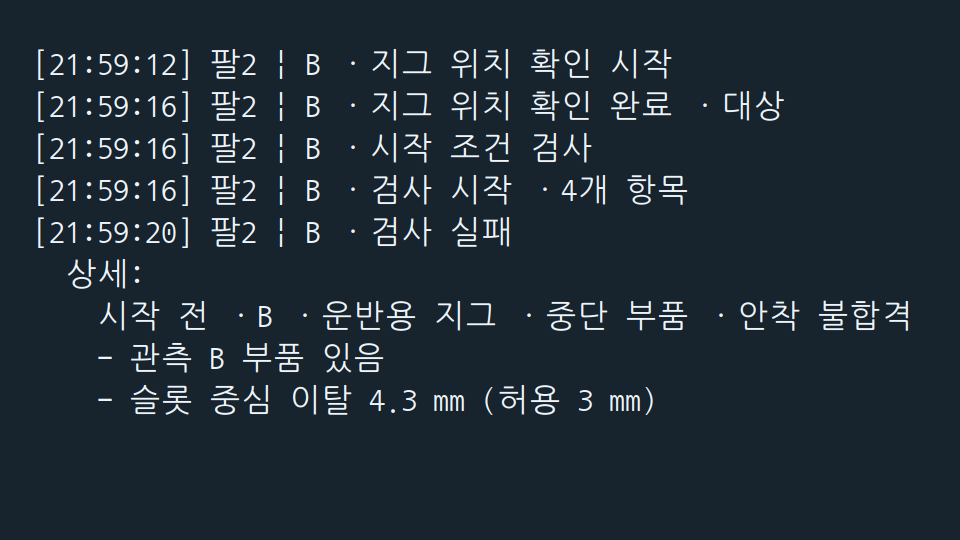
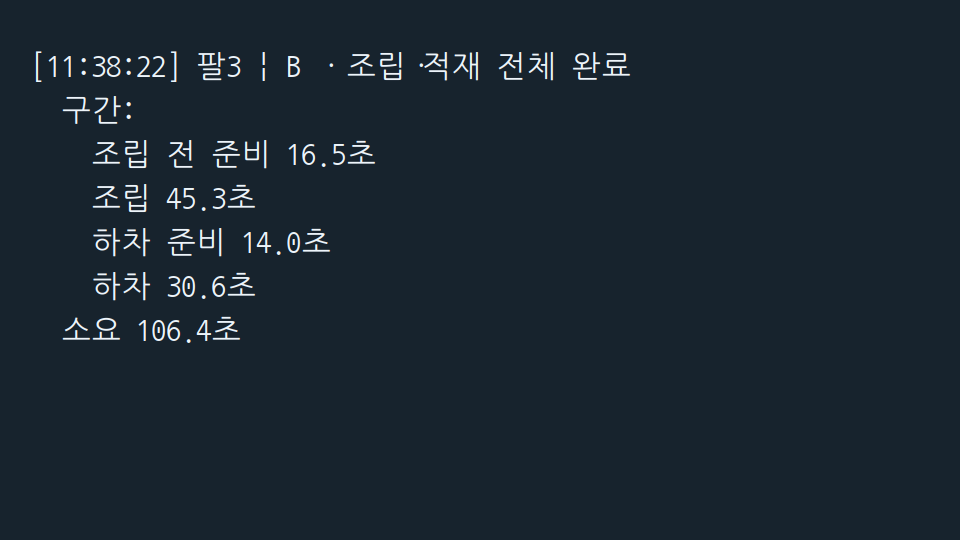
Show measured phase durations in the work_watch terminal capture

diff --git a/docs/index.html b/docs/index.html
@@ -249,7 +249,7 @@
 <div class="ds-body">
 <div class="study-pair">
 <figure><a class="image-open" href="assets/images/so101-wpf-demo.png" aria-label="WPF 관제 데모 화면 크게 보기"><img src="assets/images/so101-wpf-demo.png" width="1920" height="1080" loading="lazy" alt="조립·적재 명령 버튼과 팔별 운전 상태, 최근 명령의 완료·실패 이력"></a><figcaption>WPF 관제 · 작업 요청과 팔별 결과 확인 (데모)</figcaption></figure>
-<figure><a class="image-open" href="assets/images/so101-work-watch.png" aria-label="work_watch 터미널 로그 크게 보기"><img src="assets/images/so101-work-watch.png" width="960" height="540" loading="lazy" alt="팔2의 B 부품 안착 검사 실패. 슬롯 중심 이탈 4.3 mm로 허용치 3 mm를 초과한 터미널 로그"></a><figcaption>work_watch 터미널 · Pi에 저장된 안착 검사 로그 발췌</figcaption></figure>
+<figure><a class="image-open" href="assets/images/so101-work-watch.png?v=duration" aria-label="work_watch 터미널 로그 크게 보기"><img src="assets/images/so101-work-watch.png?v=duration" width="960" height="540" loading="lazy" alt="B 조립·적재 완료 로그. 조립 전 준비 16.5초, 조립 45.3초, 하차 준비 14.0초, 하차 30.6초로 총 106.4초 소요"></a><figcaption>work_watch 터미널 · B 조립·적재 1회 소요 시간 106.4초</figcaption></figure>
 </div>
 <ol class="flow row3">
 <li><span>01</span><h4>작업 요청 · Goal</h4><p>‘A 조립 → 적재’를 선택하면 WPF가 HTTPS로 Ubuntu 중계에 요청. 중계가 ROS 2 액션으로 Pi에 <code>BUILD_LOAD_A</code> 전달</p></li>
